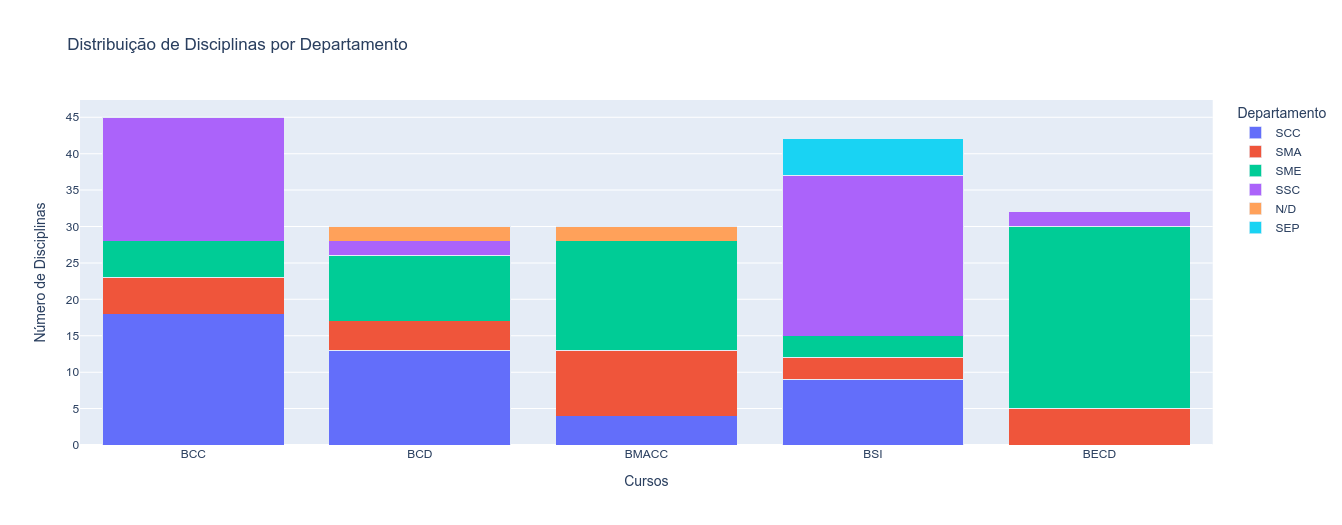
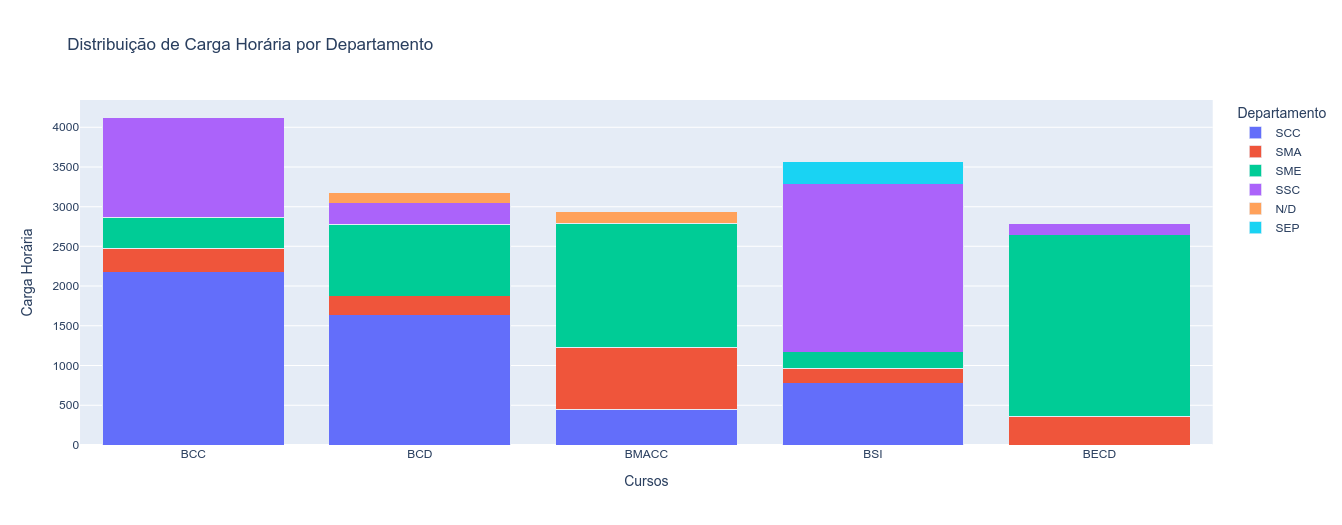
versao final do relatorio

diff --git a/relatorio/relatorio.tex b/relatorio/relatorio.tex
@@ -204,10 +204,86 @@ distribuição.
 
 \section{Discussões Preliminares}
 
-% Esqueleto vazio: inserir aqui os insights obtidos, a interpretação crítica dos resultados, as limitações e a reflexão sobre o processo e lições aprendidas.
+Sobre a evolução da carga horária, a primeira informação que salta aos olhos é
+que o BCC é o único dos cursos analisados que abrangem 5 anos de estudo, o que
+permite a ele uma distribuição maior das suas disciplinas. Mesmo assim, em
+quase todos os semestres, ele é o curso que apresenta mais horas, com exceção
+do sexto semestre, onde o BSI é líder. Assim, podemos concluir que o BCC é um
+curso mais extenso e com mais conteúdos que os outros.
+
+Ainda sobre o BCC, é possível observar que, quando chegamos na segunda metade
+do curso, o número de horas se reduz e, a partir do sétimo semestre, não passa
+mais da marca de 400 horas. Esse comportamento é reproduzido no cursos de BSI,
+que consistentemente mantém mais de 400 horas por semestre, com a exceção do
+último ano, onde apresenta 360 horas por semestre. Já BCD, ao longo de todo o
+curso, tem um comportamento de alternar um período com mais horas e um com
+menos, ainda assim, após o sexto, ele não ultrapassa as 400 horas em um dado
+semestre. 
+
+Os cursos BECD e BMACC tem um comportamento parecido e curioso. Até o quarto
+semestre eles apresentam carga moderada (entre 350 e 450). O quinto semestre é
+marcado por uma sobrecarga horária de 480 horas para os dois cursos, seguido de
+um relaxamento nos sextos e sétimos semestres (atingindo mínimo no semestre 7)
+e um último semestre com carga horária de 360 horas. 
+
+É interessante notar, que o último semestre de todos os cursos é de 360 horas
+pois esse semestre sempre é destinado exclusivamente ao Estágio Supervisionado,
+que tem carga horária de 360 horas (no caso do BCC, os dois últimos semestres).
+
+Assim, a maior tendência que podemos observar entre os cursos é que todos eles
+têm uma diminuição de carga horária de alguma forma na segunda metade, porém
+cada curso apresenta um modelo diferente de relaxamento de acordo com os
+objetivos acadêmicos particulares de cada um.
+
+Ao olhar para a distribuição de carga horária por departamento, é reforçada a
+ideia que o BCC é o curso mais expansivo dos analisados, comprimindo mais horas
+que todos os outros. Ele é seguido do BSI, que também já havíamos observado
+como um curso com bastante carga horária.
+
+Analisando como essa carga é distribuída, vemos que o BSI possui a menor
+quantidade de horas destinada aos departamentos de matemática e estatística
+(SMA e SME). Logo, é possível concluir que este é um curso mais focado em
+aplicação computacional e estudo dos sistemas. Essa tese é reforçada pelo alto
+número de horas destinadas ao SSC e SCC (departamentos de sistemas de
+computação e ciência da computação, respectivamente) e pela presença de algumas
+disciplinas do SEP, o departamento da engenharia da produção. O BCC é similar
+nesse quesito, porém possui quase o dobro de horas destinadas ao SMA e SME e
+nenhuma disciplina do SEP. Então, podemos observar como o BCC é mais voltado a
+teoria da computação e aos fundamentos matemáticos por trás da teoria que o
+BSI.
+
+Já o BMACC e o BECD tem quase todas as suas disciplinas provenientes do SMA ou
+SME. Por ser um curso de matemática aplicada, o BMACC ainda abrange uma decente
+carga para matérias do SCC (450 horas), onde o BECD disponibiliza singelas 150
+horas para o SSC, tendo o resto da carga horária destinado à matemática, com a
+grande maioria do SME. Assim, vemos como o curso de estatítica pouco explora
+além do vasto mundo da análise estatítica, já o curso de matemática aplicada,
+possue uma maior abrangência de conteúdos diversos dentro da matemática, e fora
+dela.
+
+Aqui, o BCD se apresenta como uma opção intermediária a todos, apresentando
+considerável carga ao SCC e SSC, bem como ao SME. Isso se deve a sua natureza
+como um curso que faz a ponte entre a computação e a estatística.
+
+Dessa forma, esse gráfico nos permitiu analisar melhor a composição de cada
+curso e como cada um é pensado de acordo com a sua área de estudo.
+
+
+Finalmente, temos a distribuição de créditos-aula e créditos-trabalho. Aqui,
+existe uma clara distinção entre dois grupos. O primeiro, composto por BCC, BCD
+e BSI, que tem por volta de 30\% dos créditos trabalho. E o segundo, composto
+por BECD e BMACC, que tem mais ou menos 20\% de créditos trabalho. Uma possível
+explicação é que as matérias do SSC e SCC tem maior carga de trabalho que as
+matérias do SMA e SME.
 
 \section{Próximos Passos}
 
-% Esqueleto vazio: inserir aqui as direções para a segunda etapa do projeto, com novas questões a serem exploradas ou o aprofundamento de alguma questão específica.
+Ao decorrer da análise algumas limitações foram observadas que podem ser
+melhoradas futuramente. Nominalmente, sentimos falta de fazer uma leitura mais
+compreensiva das disciplinas que cada curso aborda, a fim de entender quais são
+as similaridades e diferenças de currículo entre os cursos. Além disso, seria
+interessante também entender como é a composição de cursos para além do ICMC,
+comparando com cursos similares de outros campus da USP e com outros cursos de
+São Carlos, como as engenharias e cursos da Física.
 
 \end{document}
